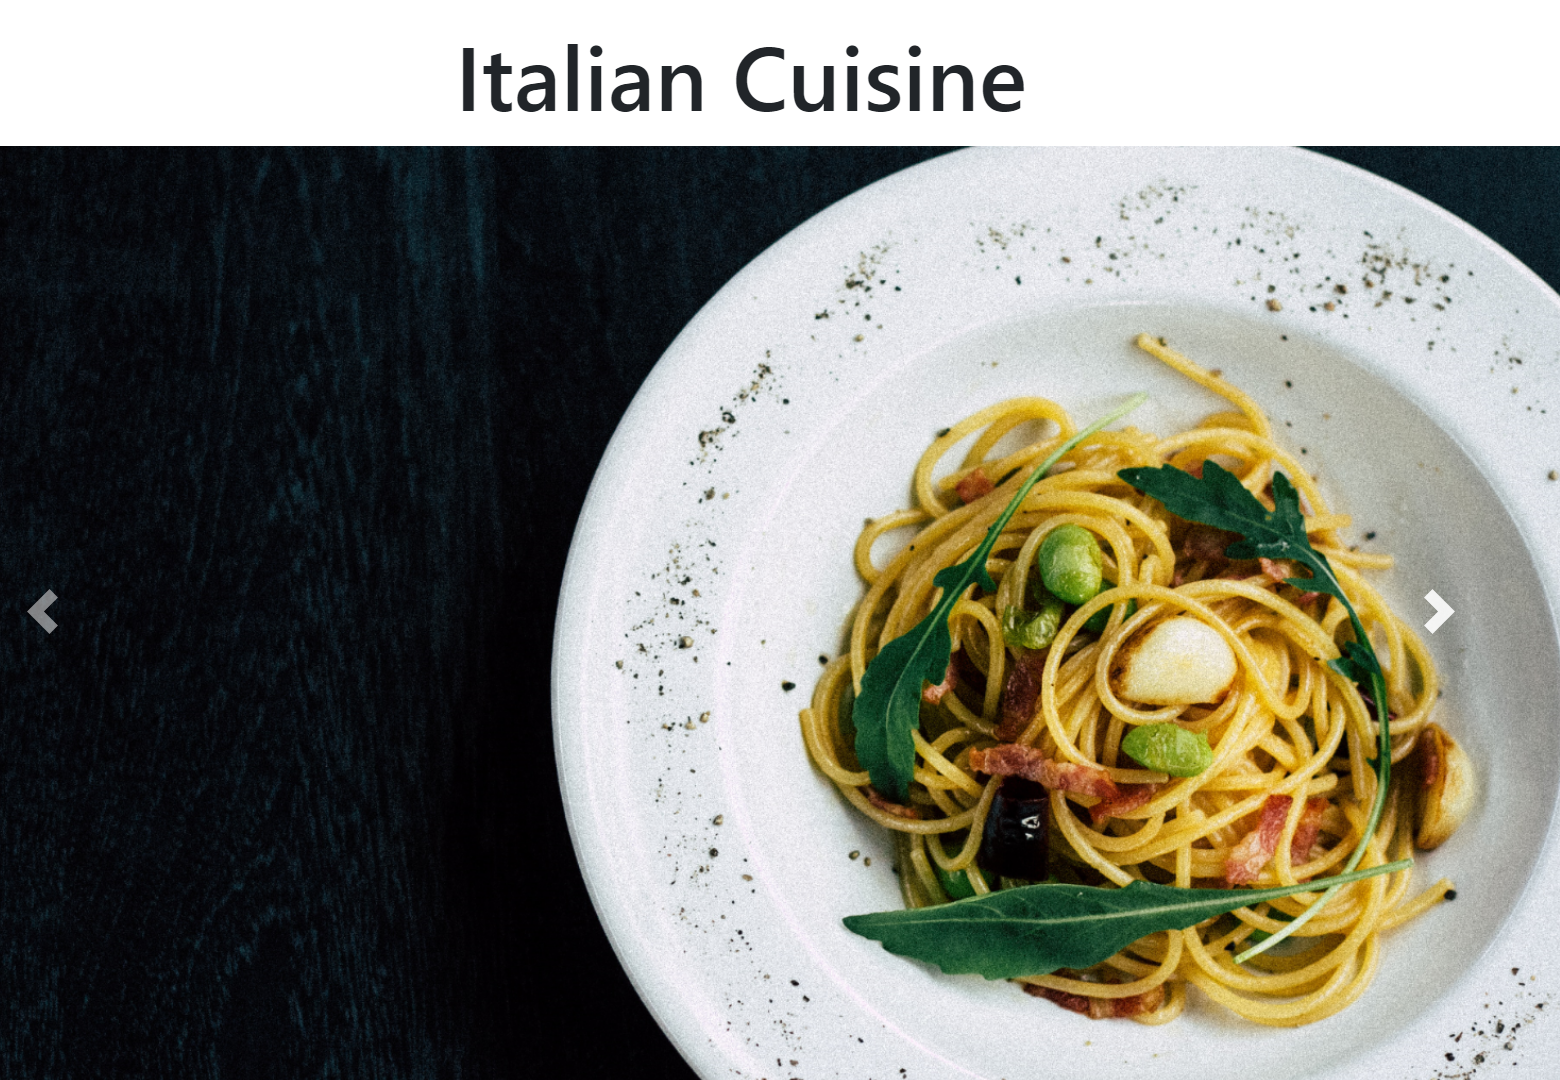
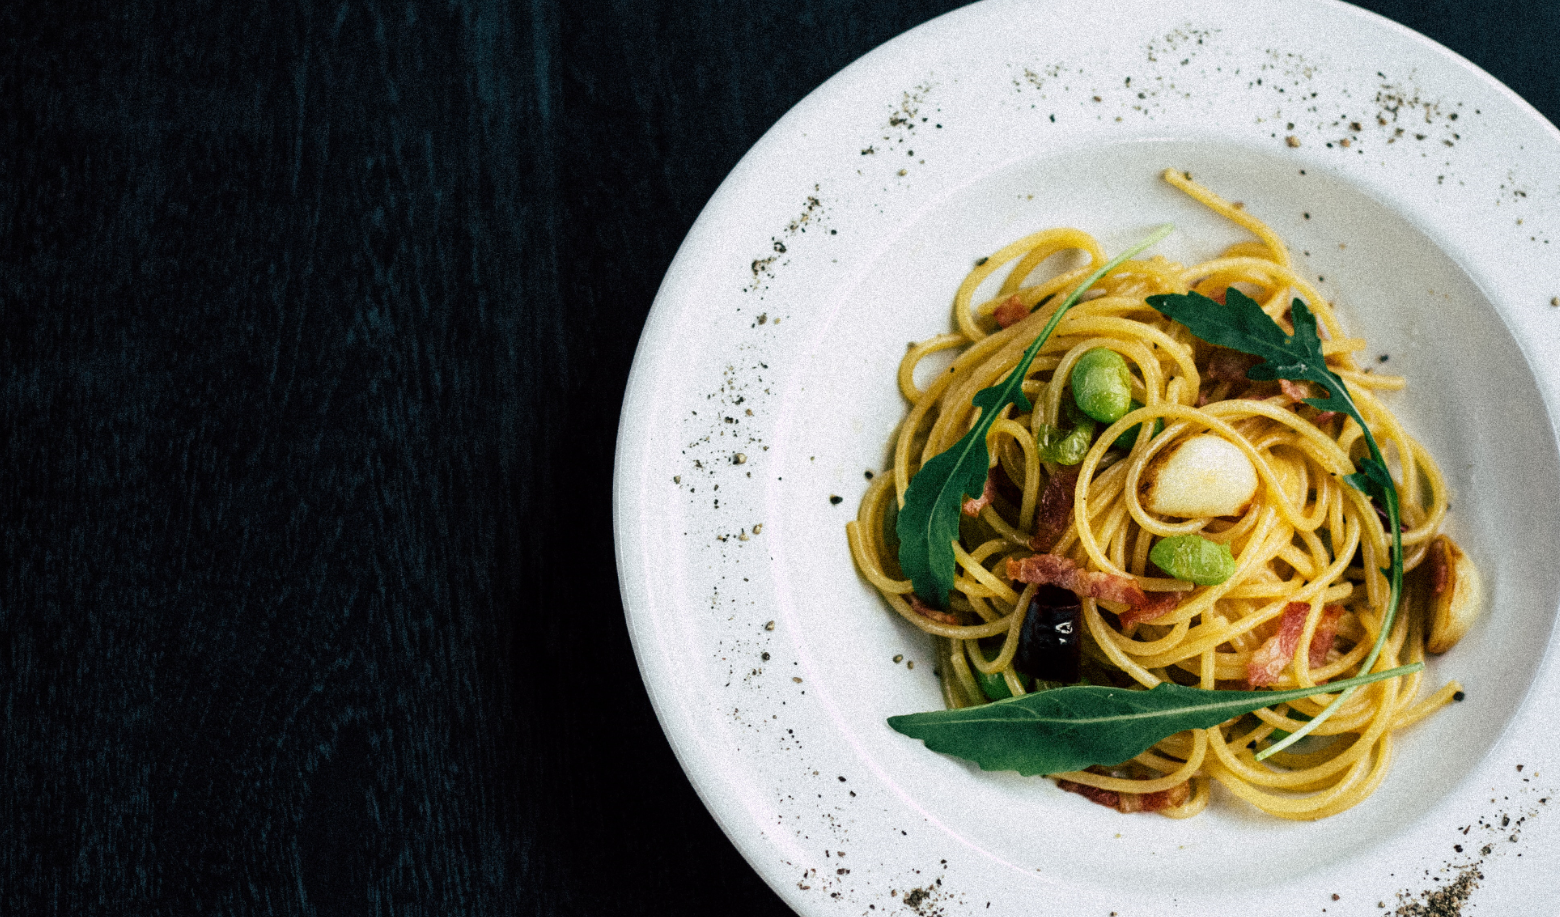
push 6

diff --git a/templates/index.html b/templates/index.html
@@ -132,15 +132,15 @@
                   <img src="../static/image/p1.PNG" alt="pr3esentation" width="1100" height="500">
                 </div>
                 <div class="carousel-item">
-                  <!-- <h1> Mexican Cuisine</h1> -->
+                  <h1> Mexican Cuisine</h1>
                   <img src="../static/image/mex1.PNG" alt="pr3esentation" width="1100" height="500">
                 </div>
                 <div class="carousel-item">
-                    <!-- <h1> American Cuisine</h1> -->
+                    <h1> American Cuisine</h1>
                   <img src="../static/image/ame1.PNG" alt="pr3esentation" width="1100" height="500">
                 </div>
                 <div class="carousel-item">
-                    <!-- <h1> Italian Cuisine </h1> -->
+                    <h1> Italian Cuisine </h1>
                   <img src="../static/image/italian1.PNG" alt="pr3esentation" width="1100" height="500">
                 </div>
                 <!-- <div class="carousel-item">
@@ -148,11 +148,11 @@
                   <img src="../static/image/indian.JPG" alt="pr3esentation" width="1100" height="500">
                 </div> -->
                 <div class="carousel-item">
-                    <!-- <h1> BBQ</h1> -->
+                    <h1> BBQ</h1>
                   <img src="../static/image/bbq1.PNG" alt="pr3esentation" width="1100" height="500">
                 </div>
                 <div class="carousel-item">
-                    <!-- <h1> Mediterranean Cuisine</h1> -->
+                    <h1> Mediterranean Cuisine</h1>
                   <img class="img-fluid" src="../static/image/medi1.PNG" alt="pr3esentation" width="1100" height="500">
                 </div>
                 <div class="carousel-item">
